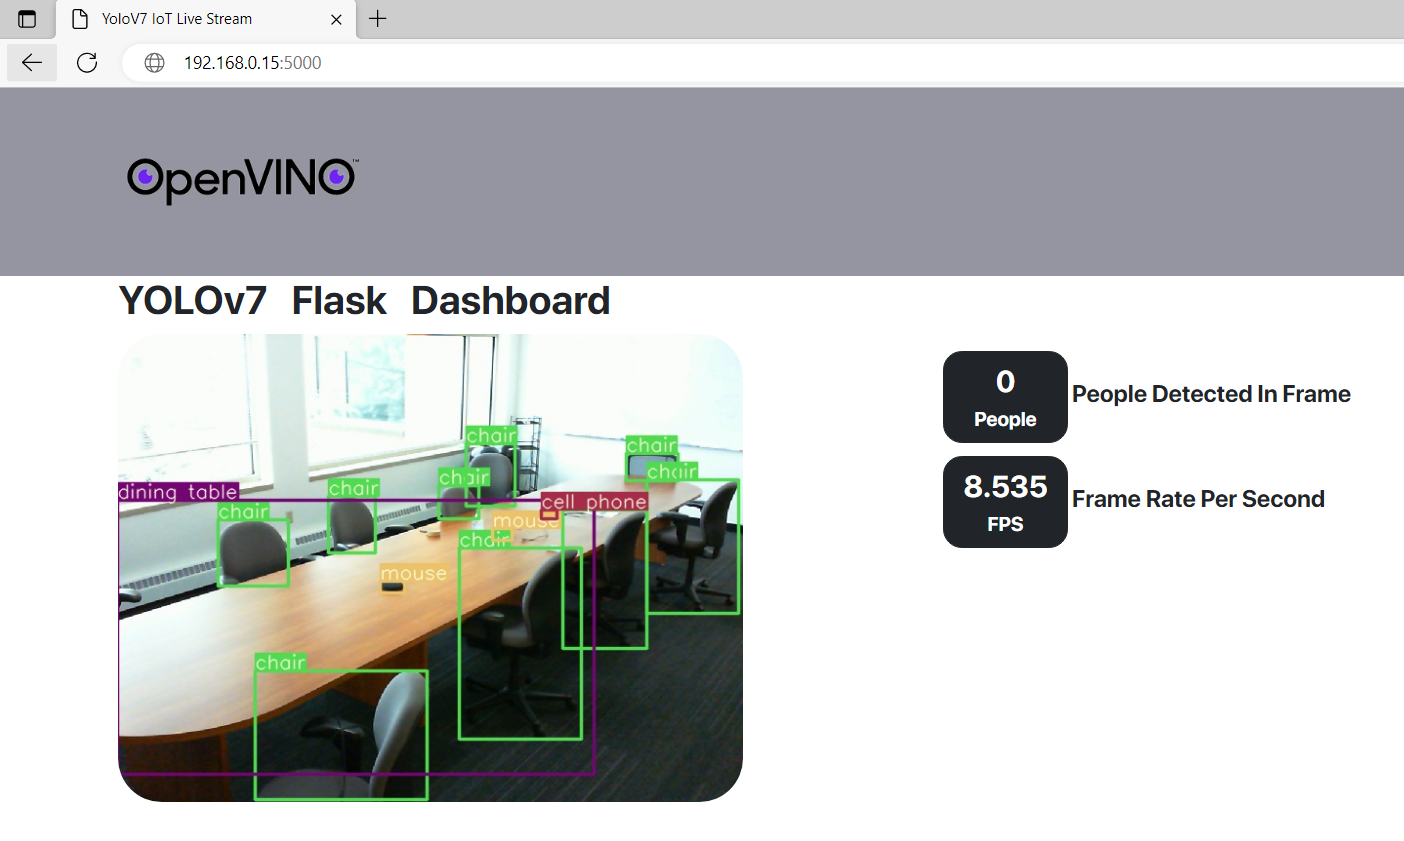
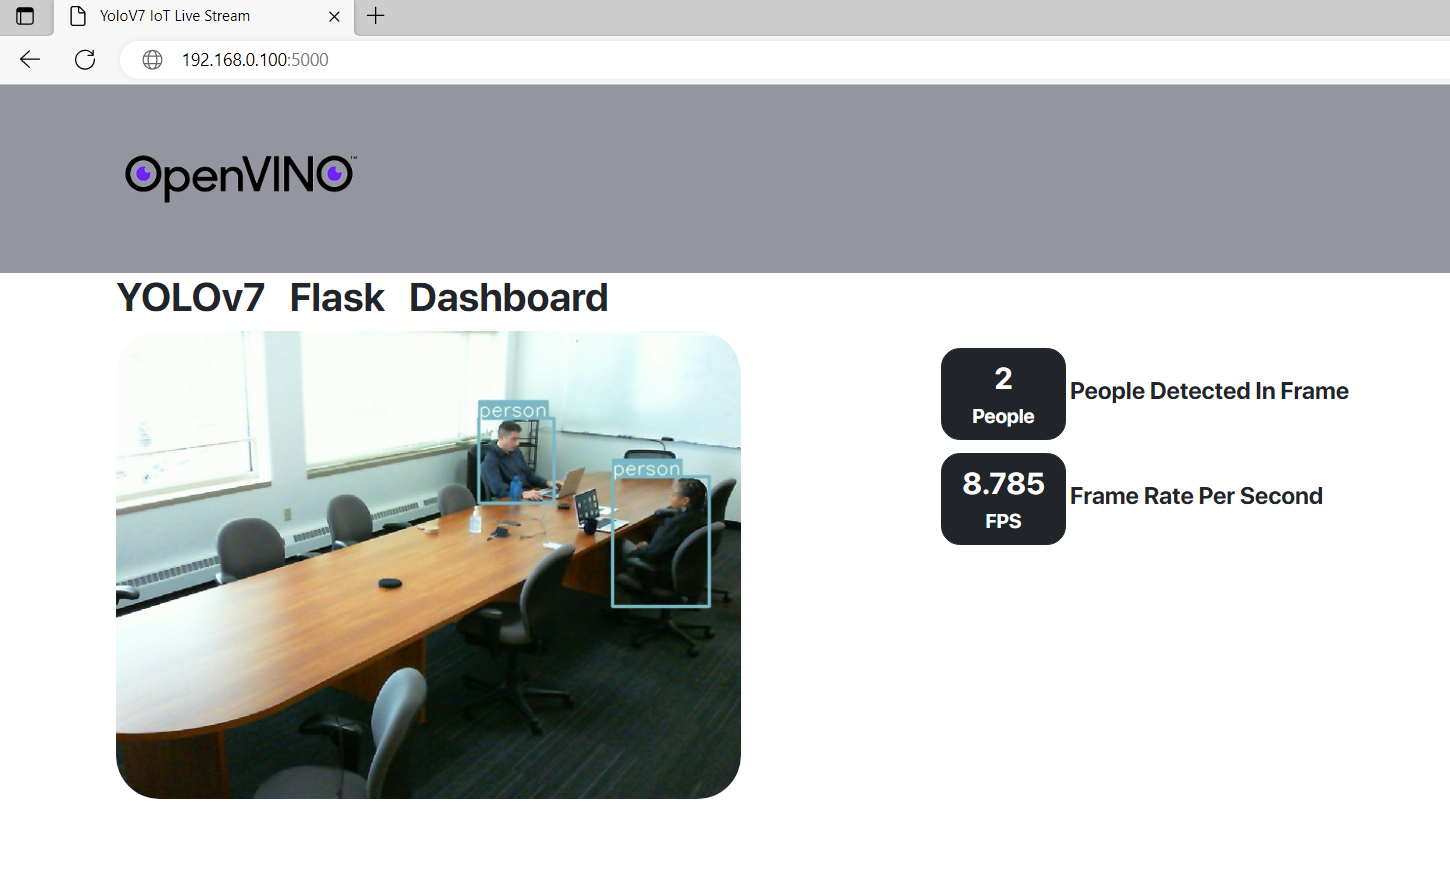
IoT box in people only

diff --git a/python/yolov7.py b/python/yolov7.py
@@ -187,14 +187,13 @@ class YOLOV7_OPENVINO(object):
             people = 0
             for xyxy, conf, cls in boxinfo:
                 conf = round(conf,5)
-                
-                self.plot_one_box(xyxy, 
-                                    img, 
-                                    label=self.classes[int(cls)], 
-                                    color=self.colors[int(cls)], 
-                                    line_thickness=2)
-                            
-                if cls == 0: # for IoT                 
+                     
+                if cls == 0: # for IoT only box people
+                    self.plot_one_box(xyxy, 
+                                        img, 
+                                        label=self.classes[int(cls)], 
+                                        color=self.colors[int(cls)], 
+                                        line_thickness=2)
                     people += 1
   
             # web app for IoT
